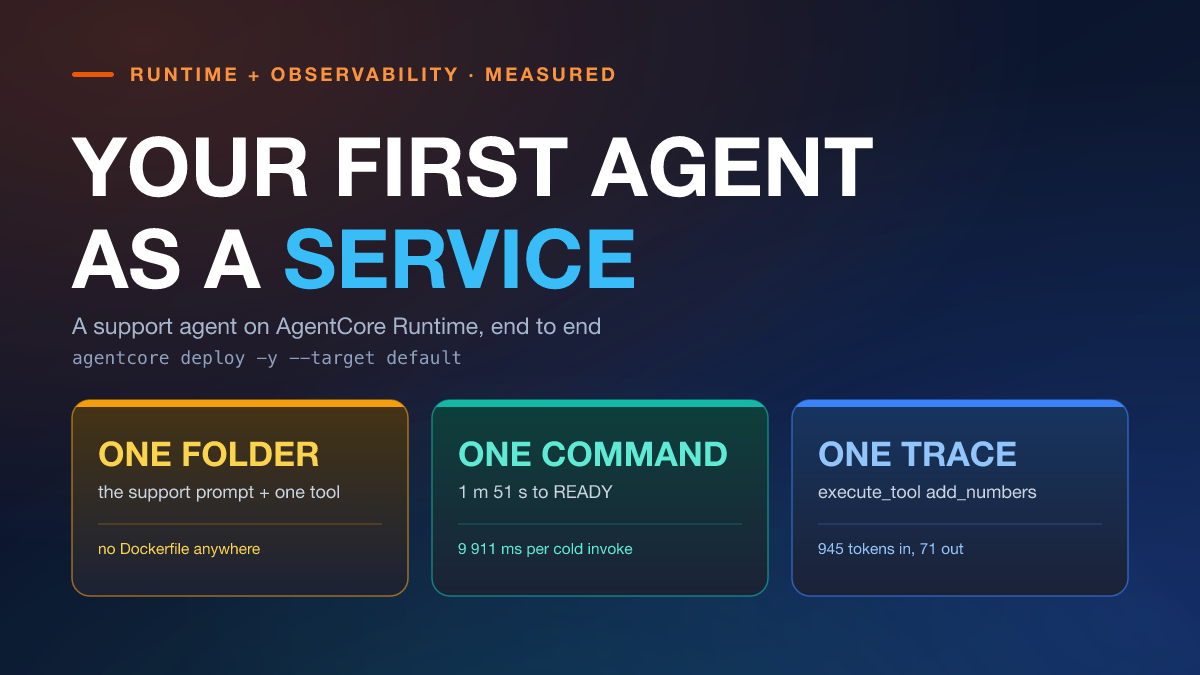
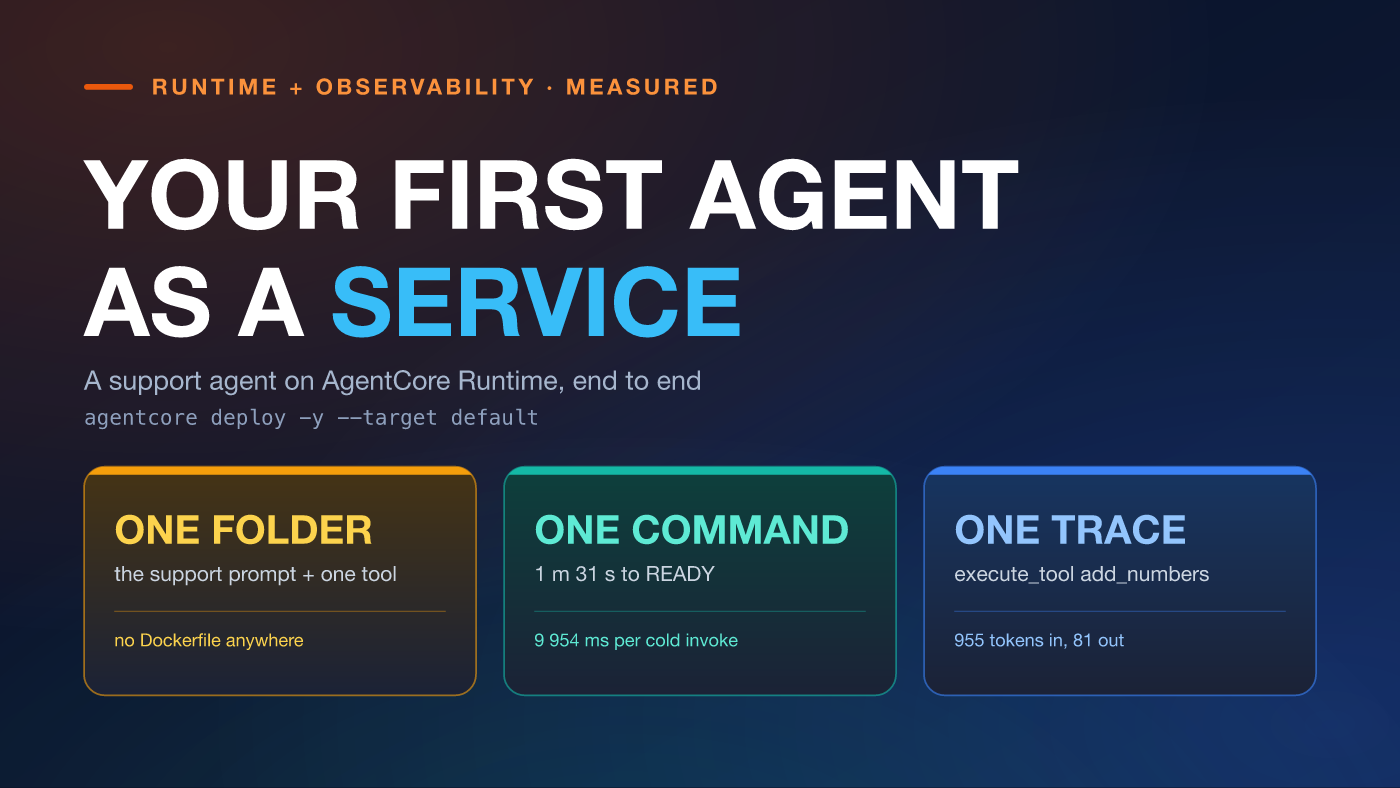
uc01 article: drop the wrong CDK advice, make every number traceable
The troubleshooting bullet claimed three deploys failed and the fourth worked,
so retry before debugging. The CLI logs say otherwise: five synth failures
between 13:12:15 and 13:19:28, one 8.5 s partial success wedged between them,
then the 13:22:05 run this article quotes. The tree never changed and a manual
synth was clean, so the shape is interference, not a compiler error, and
"retry" was the wrong advice. The bullet is gone from the article; the episode
is recorded in evidence/48-deploy-synth-failures.txt and the README now tells
the reader to run npx cdk synth and look for a second deploy.

Two more untraceable numbers: the token prices come from the AWS Price List
API, now in evidence/46-model-cost.txt with the arithmetic, and jq 1.7.1 is
now backed by evidence/47-tool-versions.txt. The README cost table carried the
previous run's token counts and a runtime-compute figure nothing measured; it
now quotes this run and says plainly that the compute line was not metered.

Housekeeping: cover-medium.svg was a hand copy with the previous run's numbers
(1 m 51 s, 9 911 ms, 945/71). It now comes out of gen_figures.py, the same
composition as cover.svg at Medium's 1400x788. F2-deploy-loop was generated
but never referenced; the article now uses it after the teardown capture.

check_master: 1292 words.

diff --git a/articles/images/your-first-agent-as-a-service-on-agentcore/gen_figures.py b/articles/images/your-first-agent-as-a-service-on-agentcore/gen_figures.py
@@ -2,7 +2,7 @@
 """Generate every image for the uc01 article from the run captured on 2026-10-18.
 
 Every line drawn here comes from `usecases/01-first-agent/evidence/`, files
-30 to 44. The terminal panels are the captured output with the account id
+30 to 48. The terminal panels are the captured output with the account id
 redacted to 123456789012, with the spinner frames and the blank lines between
 progress steps removed, and with lines longer than the panel wrapped. Nothing
 else is changed and nothing is invented.
@@ -517,12 +517,18 @@ def figure_span_tree() -> None:
 # covers                                                                      #
 # --------------------------------------------------------------------------- #
 
-def cover() -> None:
+COVER_TITLE = ("<title>Cover: your first agent as a service. A support agent deployed on "
+               "AgentCore Runtime, measured in us-east-1.</title>")
+
+
+def cover_parts() -> list[str]:
+    """The cover composition, drawn at 1200x675.
+
+    Returns the gradients, the background and the one open <g> that holds the
+    artwork, so a caller can wrap it at any size.
+    """
     w, h = 1200, 675
     p = [
-        f'<svg xmlns="http://www.w3.org/2000/svg" viewBox="0 0 {w} {h}" width="{w}" height="{h}" role="img">',
-        "<title>Cover: your first agent as a service. A support agent deployed on AgentCore Runtime, "
-        "measured in us-east-1.</title>",
         "<defs>",
         '<linearGradient id="bg" x1="0" y1="0" x2="1" y2="1">'
         f'<stop offset="0" stop-color="{BG0}"/><stop offset="1" stop-color="{BG1}"/></linearGradient>',
@@ -573,8 +579,32 @@ def cover() -> None:
         p.append(f'<text x="{x+26}" y="498" font-size="18" fill="#cbd5e1">{sub1}</text>')
         p.append(f'<line x1="{x+26}" y1="524" x2="{x+310}" y2="524" stroke="{accent}" stroke-opacity="0.35" stroke-width="1"/>')
         p.append(f'<text x="{x+26}" y="554" font-size="15.5" fill="{bright}">{sub2}</text>')
+    return p
+
+
+def cover() -> None:
+    w, h = 1200, 675
+    p = [
+        f'<svg xmlns="http://www.w3.org/2000/svg" viewBox="0 0 {w} {h}" width="{w}" height="{h}" role="img">',
+        COVER_TITLE,
+    ]
+    p += cover_parts()
     p.append("</g></svg>")
     (HERE / "cover.svg").write_text("\n".join(p) + "\n", encoding="utf-8")
+
+
+def cover_medium() -> None:
+    """The same composition at Medium's feature size, 1400x788 = the cover scaled 7/6."""
+    w, h = 1400, 788
+    scale = w / 1200
+    p = [
+        f'<svg xmlns="http://www.w3.org/2000/svg" viewBox="0 0 {w} {h}" width="{w}" height="{h}" role="img">',
+        COVER_TITLE,
+        f'<g transform="scale({scale:.6f})">',
+    ]
+    p += cover_parts()
+    p.append("</g></g></svg>")
+    (HERE / "cover-medium.svg").write_text("\n".join(p) + "\n", encoding="utf-8")
 
 
 def cover_devto() -> None:
@@ -638,6 +668,7 @@ def main() -> None:
     figure_loop()
     figure_span_tree()
     cover()
+    cover_medium()
     cover_devto()
     print("wrote", len(list(HERE.glob("*.svg"))), "svg files in", HERE)
 

diff --git a/articles/your-first-agent-as-a-service-on-agentcore.md b/articles/your-first-agent-as-a-service-on-agentcore.md
@@ -29,7 +29,7 @@ The other seven stay off. No Memory, so the agent keeps nothing between turns. N
 
 ## Requirements
 
-- Node.js 20 or newer (22.22.2 here), the AgentCore CLI 0.31.1, AWS CLI 2.x, jq 1.7, uv 0.11.9
+- Node.js 20 or newer (22.22.2 here), the AgentCore CLI 0.31.1, AWS CLI 2.x, jq 1.7.1, uv 0.11.9
 - Python 3.10 to 3.14 on the host; the runtime target is PYTHON_3_13, set in the contract
 - An AWS account with Bedrock model access; region us-east-1 for everything
 - Model: deepseek.v3.2, passed to the code through the `MODEL_ID` environment variable
@@ -179,6 +179,10 @@ agentcore status
 
 ![Terminal capture: the schema reset, the stack teardown, and status finding nothing left](/images/your-first-agent-as-a-service-on-agentcore/S8-teardown.png)
 
+![The six commands of the loop and what each one cost on this run](/images/your-first-agent-as-a-service-on-agentcore/F2-deploy-loop.png)
+
+Six commands, and the loop closes where it started: nothing deployed, nothing tagged, one trace kept.
+
 ## What it produced
 
 The invoke is unremarkable on purpose: one sentence, the right arithmetic, nothing else. The interesting artifact is the span tree, and it reads like the agent loop drawn by the runtime itself:
@@ -193,7 +197,6 @@ Cost, measured on this run: the traced invoke used 955 input and 81 output token
 
 - `agentcore remove all` without `-y` dies in a non-interactive shell with "This command requires an interactive terminal". Any piped or CI run hits this. The fix is the `-y` flag, and it is not optional in a script.
 - `agentcore remove all -y` resets every schema in `agentcore.json` and empties `aws-targets.json`, so the next deploy has no target and `agentcore status` answers `No resources match the given filters`. Restore both files from git before you deploy again.
-- Three deploys failed early with `CDK synth failed: node dist/bin/cdk.js: Subprocess exited with error 1`, before anything reached AWS. The same command succeeded on the fourth try; the CLI swallows the compiler's error, so retry before debugging.
 
 ## Takeaways
 
